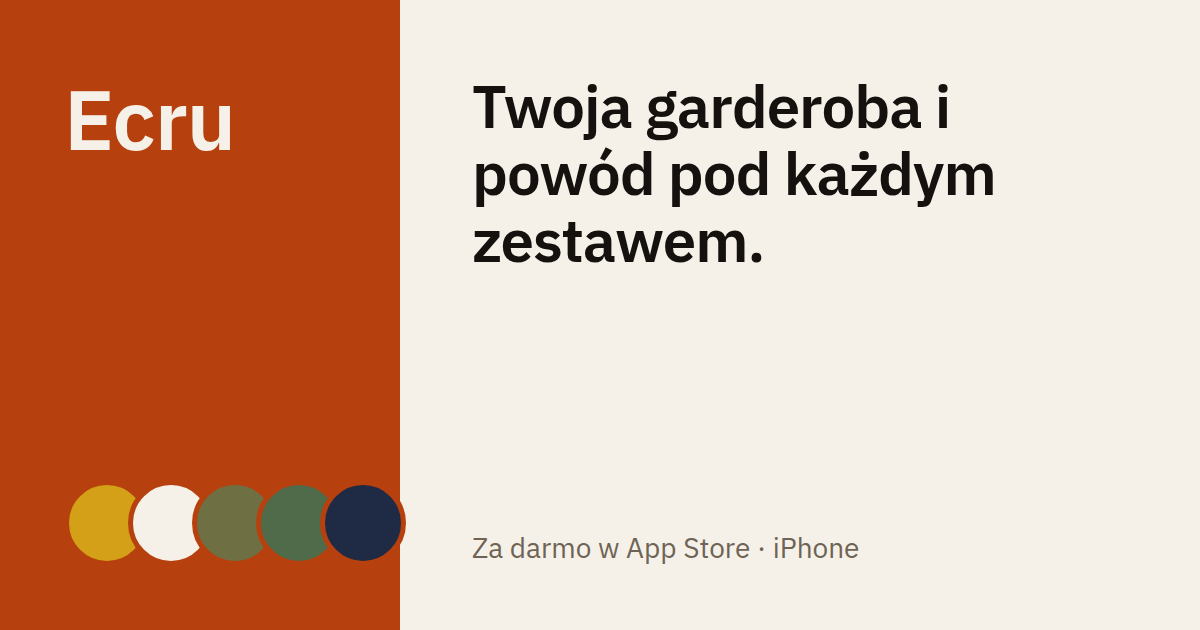
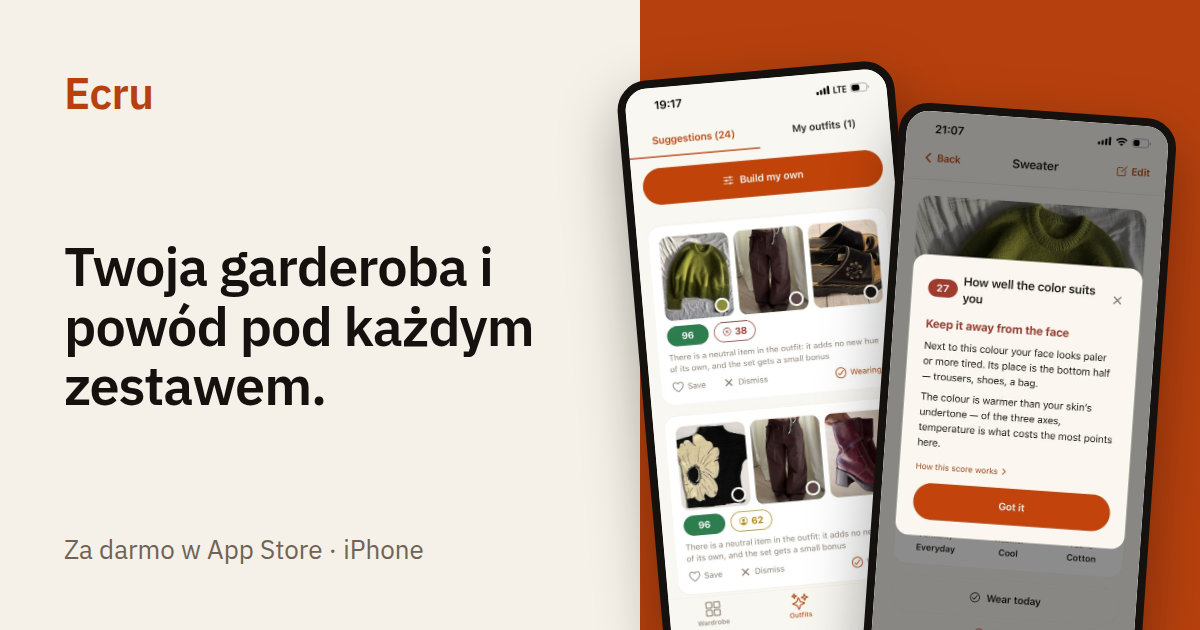
Link previews show the app: outfits with reasons and a score explained
Claude-Session: https://claude.ai/code/session_014oqhBw13aqbuJ7A7oaxTk6

diff --git a/README.md b/README.md
@@ -220,7 +220,11 @@ without recording and without GeoIP.
   and language, as before.
 - Open Graph and Twitter tags with a preview image per language
   (`assets/og/og-<lang>.png`, 1200×630) — links pasted into Telegram,
-  Instagram or Slack show a card instead of a bare URL.
+  Instagram or Slack show a card instead of a bare URL. Each card is the
+  page's `hero.title` beside two real app screens (`outfits` and `suits`:
+  outfits with their reasons, and a score opened into its explanation), so the
+  preview shows what the app does, not just its name. Re-render them when
+  those captures are retaken.
 - `apple-itunes-app` — Safari on iPhone shows the App Store smart banner.
 - JSON-LD on the home page: `MobileApplication` (iOS, free) and `FAQPage`
   built from the `faq.*` strings, so search can show the answers directly.
